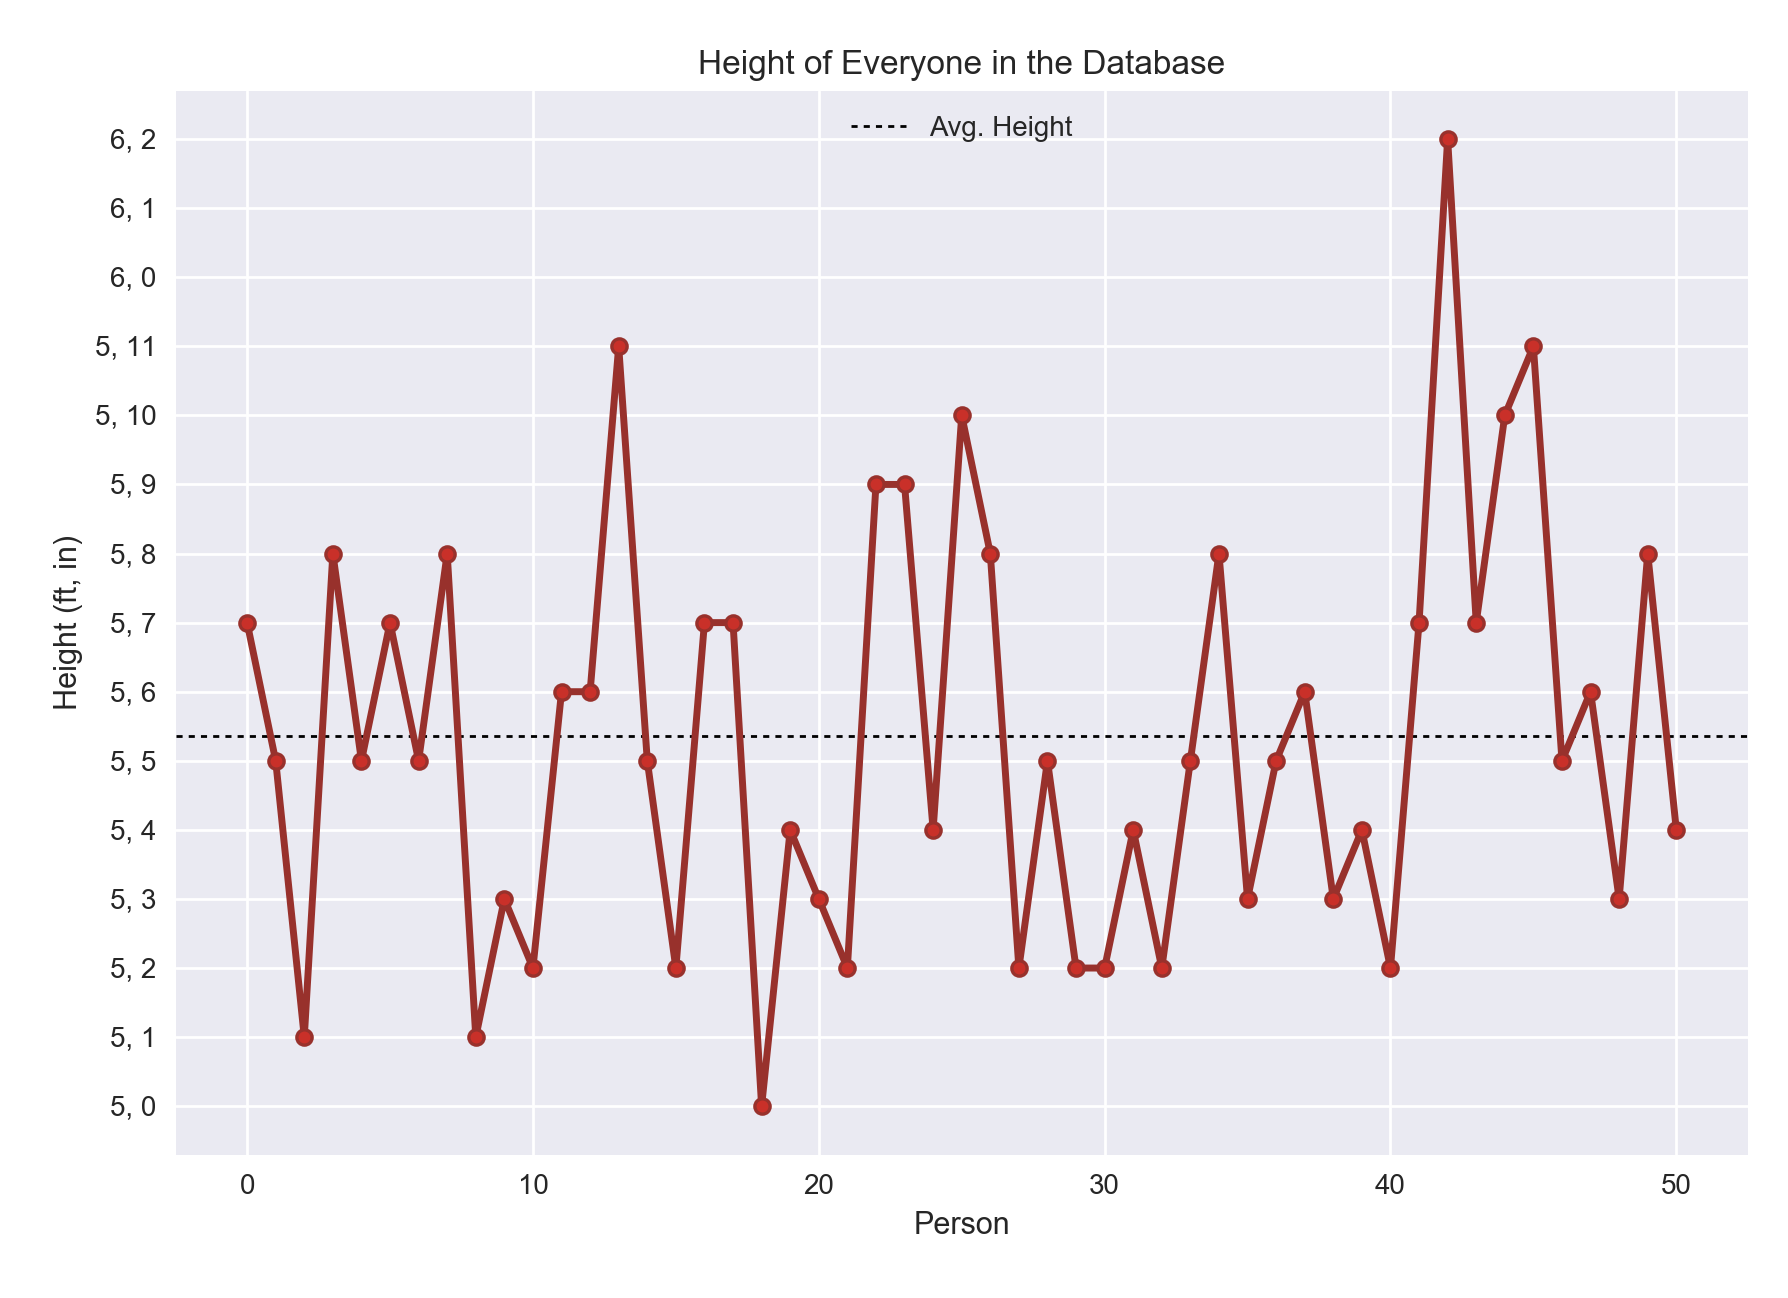
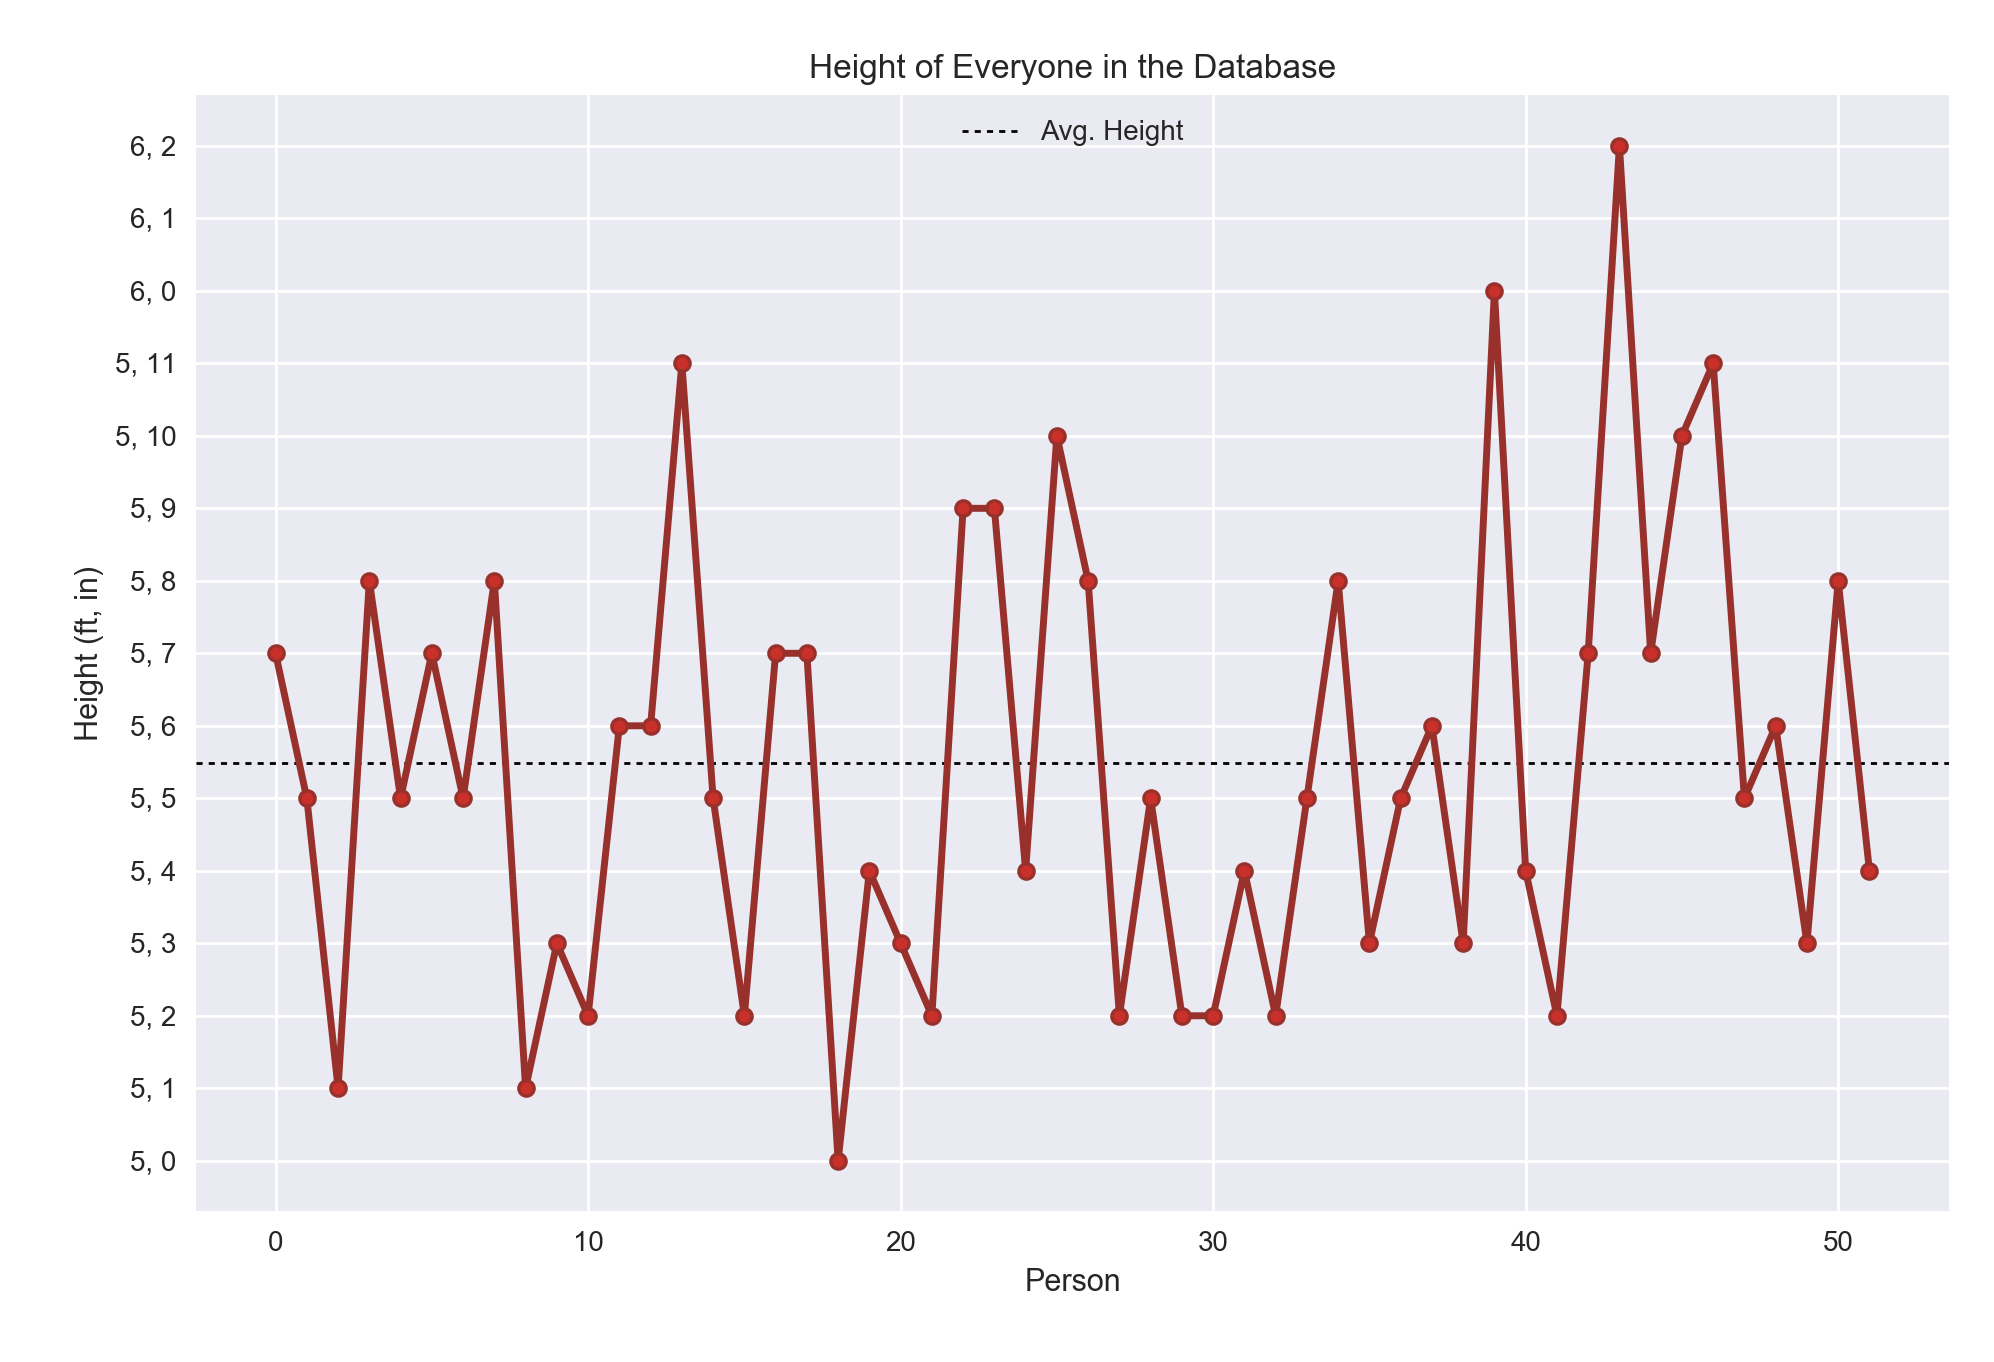
fixed images

diff --git a/scripts/model_dating_data.py b/scripts/model_dating_data.py
@@ -182,7 +182,7 @@ if __name__ == '__main__':
     ## Intentionally overfit the model b/c I only want to know feature_importances for existing data, not attempting to actually makes predictions (yet!)
     mod = xgb.XGBClassifier(n_estimators=500, learning_rate=.5, max_depth=4)
     mod.fit(X, y)
-    feat_importances(df, mod)
+    # feat_importances(df, mod)
 
     ## Add Binary version of target col back for plotting Logit and EDA
     df['Like_Binary'] = np.array([1 if x == 'Yes' else 0 for x in y])
@@ -191,3 +191,4 @@ if __name__ == '__main__':
     # plot_pairs(df)
     # plot_heights(df)
     # plot_voters(dfv)
+    # plot_attitude_counts(df)

diff --git a/README.md b/README.md
@@ -176,9 +176,9 @@ Rank | Feature                 | Importance
 ##### Dare to Nair  
 First, note that the two types of hair are basically equal, showing that I don't seem to have a preference based on hair.  This is a fun finding for me, because I would have absolutely said that I prefer "dark" hair over blonde hair, but all things equal it seems that has very little to do with whether or not I actually consider someone as a good candidate to date long-term.  In a sense, this makes both features redundant -- every woman I have dated has had hair, so we aren't learning anything by keeping it in the model at this juncture.
 
-Before we proceed without _Hair_ (hey, to each their own), it's worth noting the breakdown of the category.  In the dataset there are 26 Blondes, 24 Brunettes, and 1 Red.  Further backing the notion that I don't seem to have a real preference is that the mean _Attraction_ for both brunette and blonde is nearly identical at 5.88 and 5.87, respectively.  Again, this is news to me!  It's definitely an experience to see your own life be churned out in data and tell you something you might not have known about yourself.  
+Before we proceed without _Hair_ (hey, to each their own), it's worth noting the breakdown of the category.  In the dataset there are 27 Blondes, 24 Brunettes, and 1 Red.  Further backing the notion that I don't seem to have a real preference is that the mean _Attraction_ for both brunette and blonde is nearly identical at 5.88 and 5.90, respectively.  Again, this is news to me!  It's definitely an experience to see your own life be churned out in data and tell you something you might not have known about yourself.  
 
-Someone inexperienced with data science might also conclude that the fact there is only one redheaded person in the database means I am not attracted to women with red hair.  But, as always, we have to dig one level deeper to see if we can properly contextualize the results we get.  In this case, there are 51 total people in this database.  One has red hair.  That's just a, uh, _hair_ beneath 2% of the total database.  Well, a quick [Google search](https://www.google.com/search?q=what+percentage+of+people+have+red+hair&oq=what+percentage+of+people+have+red+hair&aqs=chrome..69i57.11005j0j7&sourceid=chrome&ie=UTF-8#q=what+percentage+of+people+have+red+hair?) gives us the context we are looking for.  
+Someone inexperienced with data science might also conclude that the fact there is only one redheaded person in the database means I am not attracted to women with red hair.  But, as always, we have to dig one level deeper to see if we can properly contextualize the results we get.  In this case, there are 52 total people in this database.  One has red hair.  That's just a, uh, _hair_ beneath 2% of the total database.  Well, a quick [Google search](https://www.google.com/search?q=what+percentage+of+people+have+red+hair&oq=what+percentage+of+people+have+red+hair&aqs=chrome..69i57.11005j0j7&sourceid=chrome&ie=UTF-8#q=what+percentage+of+people+have+red+hair?) gives us the context we are looking for.  
 
 Care to guess what percentage of the world population has red hair? ...if you said 2%, you win the Daily Double!  So, the occurrence of a lone red headed person in the database is in line with what we'd expect given the size of the database (though, it would vary by country.  The USA seems to be a fairly close representative of world red haired ratios).  Thus, we can't say anything conclusively whatsoever about my preference for or against red hair!
 
@@ -220,12 +220,12 @@ We should quickly touch on _Second Date (No)_.  Despite the possibilities for un
 <BR>
 
 ### Politics
-_Politics Left_ is a bit of a surprise, personally.  I'm a registered independent and find radical political views on either side to be a moderately off-putting trait in a potential partner.  I find strict ideology in general is a suffocator of innovation and critical thinking.  I can't help but wonder if there's not something more to this, else I might just chalk it up to being [fake news](images/fakenews.jpg).
+_Politics Left_ is a bit of a surprise, personally.  Again, just from its reported importance we are not told whether have more or less of this variable predicts if I will "like" someone.  I'm a registered independent and find radical political views on either side to be a moderately off-putting trait in a potential partner.  I find strict ideology in general is a suffocator of innovation and critical thinking.  So my personal political affiliations don't offer much of a roadmap, here.  (If I belonged to one party we could deduce whether this variable, _Politics Left_, would be considered a good or bad thing.  But I don't, so we can't).  I can't help but wonder if there's not something more to this, else I might just chalk it up to being [fake news](images/fakenews.jpg).
 
 ###### Walking Down the _Other_ Aisle
 Leaning     | Count | Attraction | Intel. Connect. | Humor | Chemistry
 ------------|-------|------------|-----------------|-------|-----------
-Left        | 33    | 5.7        | 5.0             | 4.8   | 5.0
+Left        | 34    | 5.7        | 5.0             | 4.8   | 5.0
 Right       | 14    | 6.4        | 4.3             | 5.0   | 6.0
 Independent | 4     | 4.5        | 9.1             | 9.0   | 5.0
 
@@ -233,9 +233,11 @@ Independent | 4     | 4.5        | 9.1             | 9.0   | 5.0
 
 <BR>
 
-Interesting.  There isn't anything that jumps off the page and screams "I clearly favor women who have liberal leanings."  Women leaning left politically edge out those leaning right in only one of the four variables, _Intellectual Connection_.  Conversely, conservatives come out on top in _Attraction_, _Humor_, and _Chemistry_.  But none of these "leads" are particularly resounding.  _Humor_ is almost deadlocked, and the other three categories are roughly mirror images of each other.  
+Interesting.  There isn't anything that jumps off the page and screams "I clearly favor women who have a certain political view."  Women leaning left politically edge out those leaning right in only one of the four variables, _Intellectual Connection_.  Conversely, conservatives come out on top in _Attraction_, _Humor_, and _Chemistry_.  But none of these "leads" are particularly resounding.  _Humor_ is almost deadlocked, and the other three categories are roughly mirror images of each other.  
 
-There are, however, two pronounced observations to be made.  First, the number of democrat women more than doubles that of republicans.  Again, someone eager for a quick conclusion might read that as suggesting I like to date liberal women twice as much as conservative women.  But, we can do better than such surface level takes.  The key element to any demographic sample like this is: where was it taken?  The entirety of this dataset was taken during my time living in or near Boulder, CO and the surrounding Denver metro area.  It is not surprising then that we'd expect to see a strong prevalence of democrats in this sample.
+There are, however, two pronounced observations to be made.  First, the number of democrat women more than doubles that of republicans.  Again, someone eager for a quick conclusion might read that as suggesting I like to date liberal women twice as much as conservative women.  But, we can do better than such surface level takes.  The key element to any demographic sample like this is: where was it taken?  The entirety of this dataset was taken during my time living in or near Boulder, CO and the surrounding Denver metro area.  It is not surprising then that we'd expect to see a strong prevalence of democrats in this sample.  
+
+The second point to note is that I apparently mesh very well intellectually with independents.  The sample size is too small to draw any sound result, but averaging over nine-out-of-ten in both intellectual and humor connection for four people is compelling.  This makes perfect sense -- I, myself, am an independent, so I would expect that I'd get along best with those who are also independent politically.  It's just so starkly portrayed here that even I chuckled.  Data for the win (FTW)!
 
 Out of curiosity, I looked up voter registration statistics for the counties I've lived in or that neighbored me.  
 
@@ -297,7 +299,7 @@ On a lark, I had a question come up that I wanted to poke around on.  "__Does pe
 Attitude   | Income | Count
 -----------|--------|------
 Positive   | Low    | 8
-Positive   | Medium | 5      
+Positive   | Medium | 6      
 Positive   | High   | 3    
 Neutral    | Low    | 9   
 Neutral    | Medium | 3      
@@ -308,7 +310,7 @@ Negative   | High   | 1
 Complainer | Low    | 8      
 Complainer | Medium | 1         
 
-<sub> __Table 8:__ The number of people in the database that have a given income at a given attitude. </sub>
+<sub> __Table 8:__ The number of people in the database that have a given income at a given attitude. The total categorical counts for _Attitude_ are Positive 17, Neutral 13, Negative 13, Complainer 9.</sub>
 
 <BR>
 
@@ -334,7 +336,7 @@ Third, these results would seem to suggest (only suggest) that there could indee
 ###### Attitude and Income
 Attitude   | Perc. Low | Perc. Medium | Perc. High
 -----------|-----------|--------------|-----------
-Positive   | 50.0%     | 31.2%        | 18.8%
+Positive   | 47.0%     | 35.3%        | 17.7%
 Neutral    | 64.2%     | 21.4%        | 7.2%
 Negative   | 64.2%     | 21.4%        | 7.2%
 Complainer | 88.9%     | 11.1%        | 0.0%
